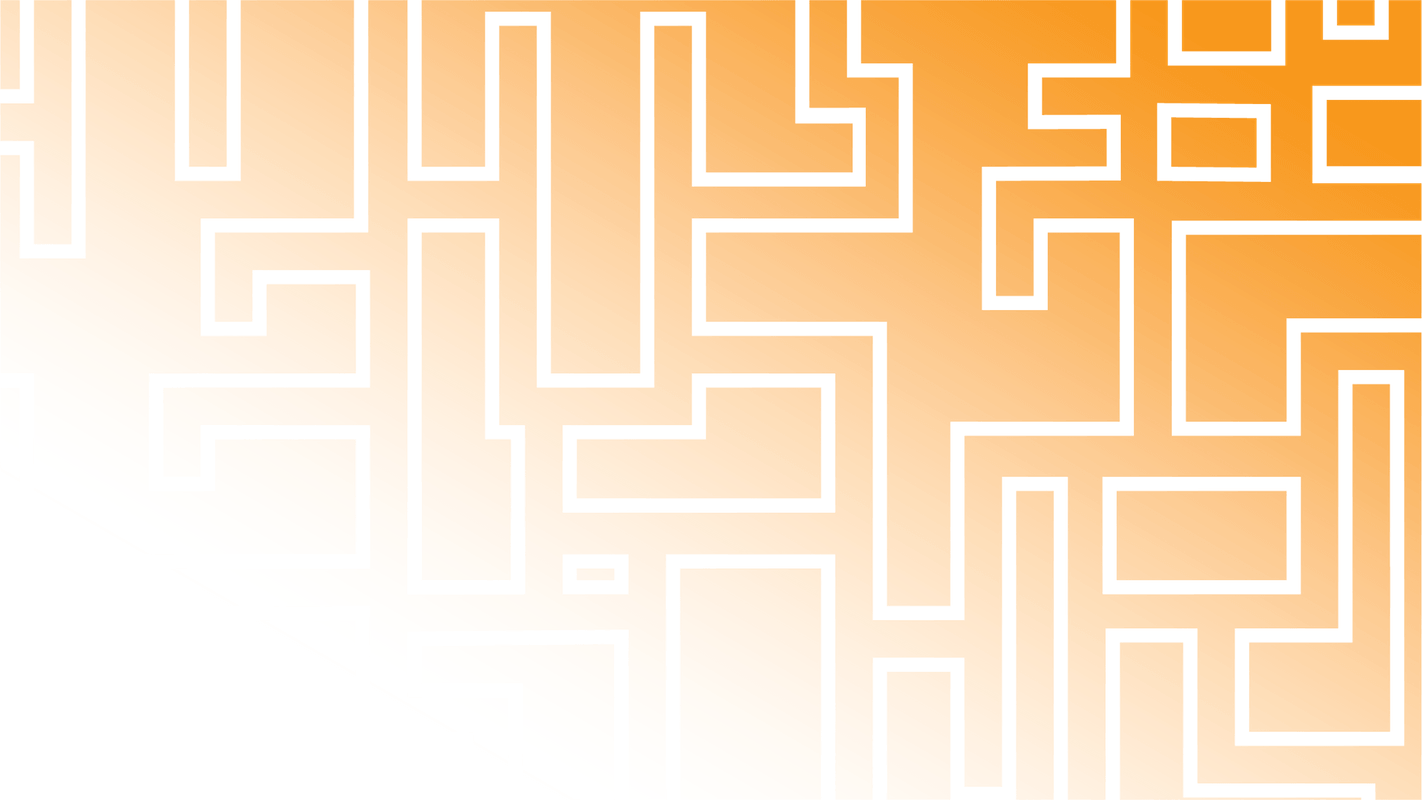
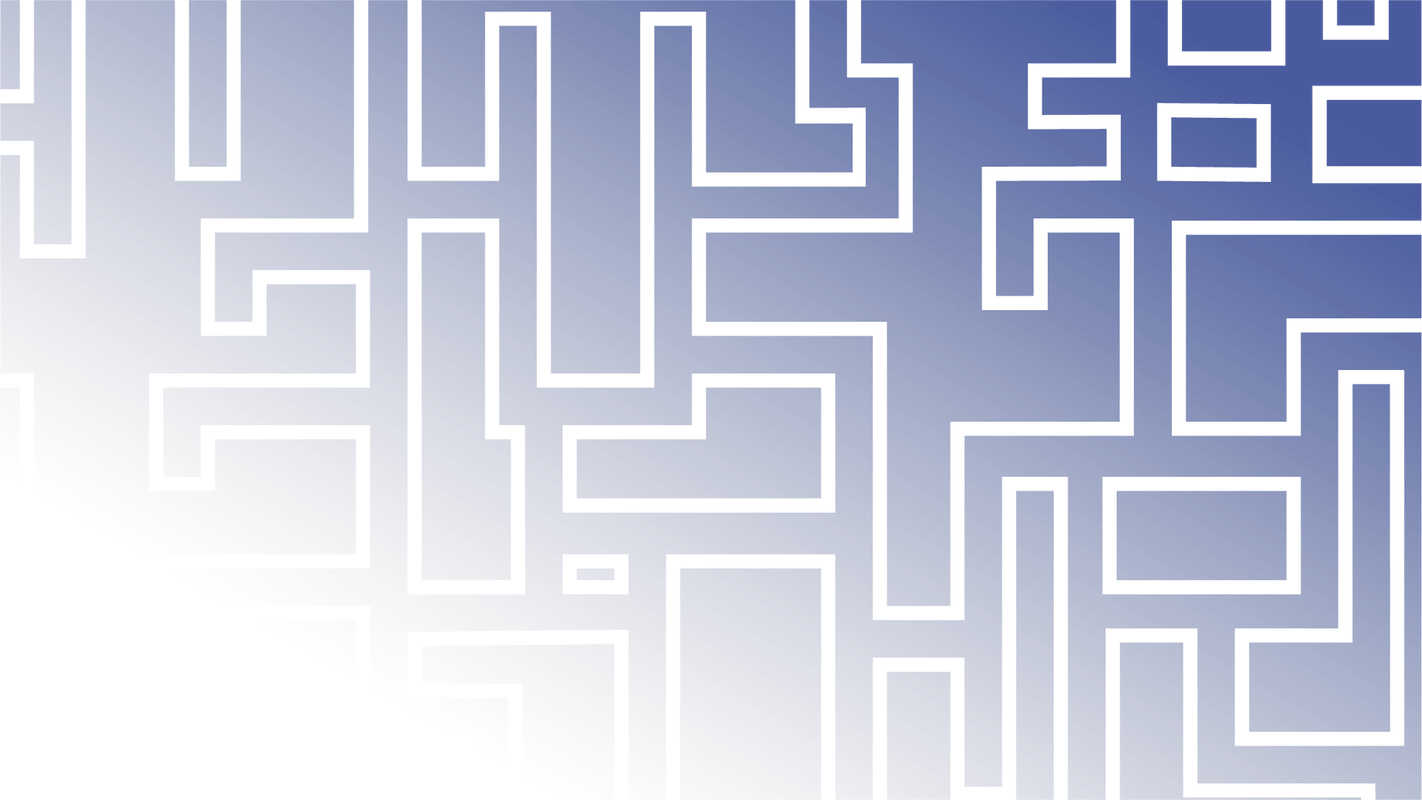
site aesthetic overhaul

diff --git a/src/App.vue b/src/App.vue
@@ -27,26 +27,18 @@
     </div>
     <!-- <h2 style="color:black; position:absolute; left:33%; top:35%;">Loren Heubert-Aubry</h2> -->
     <footer>
-        <div class="ui grid">
-          <div 
-            class="ui left floated column credits"
+        <!-- <div class="ui grid"> -->
+          <!-- <div 
+            class="ui column credits"
             :class="$mq | mq({ 
                         mobile: 'eight wide',
-                        laptop: 'five wide',
+                        laptop: 'six wide',
                     })"
-          >
-            <div style="padding-left:3%; padding-right:3%">
-              <p class="footerText">Copyright © 2018 Loren Heubert-Aubry</p>
-              <p class="footerText">Artwork by <a tabindex="0" target="_blank" rel="noopener" href="https://wyervan.wixsite.com/wyervanart">Anna Ferguson</a></p>
+          > -->
+            <div class="credits" style="padding-left:3%; padding-right:3%">
+              <p class="footerText">Site Artwork by <a tabindex="0" target="_blank" rel="noopener" href="https://wyervan.wixsite.com/wyervanart">Anna Ferguson</a></p>
             </div>
-          </div>
-          <div 
-            class="ui right floated column"
-            :class="$mq | mq({ 
-                        mobile: 'eight wide',
-                        laptop: 'four wide',
-                    })"
-          >
+          <!-- </div> -->
             <i 
               class="profileLinks" 
               :class="$mq | mq({ 
@@ -89,8 +81,7 @@
                   <i class="fab fa-itch-io"/>
                 </a>
             </i>
-          </div>
-        </div>
+        <!-- </div> -->
     </footer>
   </div>
 </template>
@@ -118,7 +109,7 @@ export default {
             id: 0,
             name: "Who I am",
             url: "about",
-            color: "#4CAF50",
+            color: "#188B8B",//"#134074",//"#4CAF50",
             img: "/src/assets/images/background/web2.png",
             alt: "/src/assets/images/background/web1.png",
             corner: "bannerTopLeft",
@@ -127,7 +118,7 @@ export default {
             id: 1,
             name: "What I've made",
             url: "projects",
-            color: "#FF9800",
+            color: "#0E3F77",//"#FF9800",
             img: "/src/assets/images/background/cactus2.png",
             alt: "/src/assets/images/background/cactus1.png",
             corner: "bannerTopRight",
@@ -136,7 +127,7 @@ export default {
             id: 2,
             name: "Where I work",
             url: "work",
-            color: "#FF5252",
+            color: "#082649",//"#FF5252",
             img: "/src/assets/images/background/wave2.png",
             alt: "/src/assets/images/background/wave1.png",
             corner: "bannerBottomLeft",
@@ -145,7 +136,7 @@ export default {
             id: 3,
             name: "What I use",
             url: "tools",
-            color: "#3F51B5",
+            color: "#0E3162",//"#3F51B5",
             img: "/src/assets/images/background/gems2.png",
             alt: "/src/assets/images/background/gems1.png",
             corner: "bannerBottomRight",
@@ -178,8 +169,8 @@ export default {
 }
 
 body {
-    background-image: url("assets/images/background/dust_scratches.jpg");
-    // background-color: black;
+    // background-image: url("assets/images/background/dust_scratches.jpg");
+    background: radial-gradient(#188B8B, #0E3162); //#0e3f77d5;
     overflow-x: hidden;
 }
 
@@ -244,11 +235,13 @@ footer {
   bottom: 3%;
   pointer-events: none;
   padding: 2em;
+  display: flex;
+  justify-content: center;
 
   .profileLinks {
     text-align: right;
-    right: 26%;
-    position:absolute;
+    margin: auto;
+    z-index: 5;
     padding: 0.1em;
     border-radius:10px;
     pointer-events: all !important;
@@ -271,11 +264,12 @@ footer {
   .credits {
     text-align: left;
     position: absolute;
+    width: 30%;
     left: 8%;
     border-radius:10px;
     pointer-events: all !important;
     display: border-box;
-    background-color: rgba(155, 155, 155, 0.5);
+    // background-color: rgba(155, 155, 155, 0.5);
 
   }
 
@@ -291,13 +285,16 @@ footer {
 @media (min-width: 900px) {
 
   .footerText {
-    color: black;
+    color: white;
     font-size: 1.5em;
     font-family: 'Open Sans', sans-serif !important;
     font-weight: 0 !important;
 
     a {
-      color: black;
+      color: white;
+      :hover {
+        text-decoration: underline !important;
+      }
     }
   }
 
@@ -305,13 +302,13 @@ footer {
     position: absolute;
     height: 5em;
     width: 100%;
-    bottom: 3%;
+    bottom: 5%;
 
     .profileLinks {
       background-color: rgba(155, 155, 155, 0.5);
       text-align: right;
-      position: absolute;
-      right: 10%;
+      // position: absolute;
+      // right: 10%;
 
       i {
         color: white;
@@ -334,10 +331,10 @@ footer {
     }
 
     .credits {
-      background-color: rgba(244, 244, 244, 0.5);
+      // background-color: rgba(244, 244, 244, 0.5);
       text-align: left;
       position: absolute;
-      left: 3%;
+      left: 2%;
     }
 
     .credits:hover {
@@ -346,8 +343,8 @@ footer {
       -webkit-backdrop-filter: blur(10px); /* Chrome, Safari, Opera */
       -moz-backdrop-filter: blur(10px);
       backdrop-filter: blur(10px);
-      .footerText, a {
-        color: black;
+      a {
+        text-decoration: underline !important;
       }
     }
 

diff --git a/src/components/TileComponent.vue b/src/components/TileComponent.vue
@@ -8,8 +8,9 @@
     :style="{
         backgroundImage: tileSelected ? 'url()':'url('+ tileImg +')', 
         backgroundColor: tileSelected ? color : 'transparent', 
-        cursor: tileSelected ? 'default':'pointer'
-        }" 
+        cursor: tileSelected ? 'default':'pointer',
+        //boxShadow: '-10px -10px 10px ' + color
+    }" 
     :class="{ tileDetails: tileSelected }"
 >
     <div class="backButton" :class="[($mq === 'tablet') ? '':'hvr-float']" v-if="tileSelected" @click="shrinkTile()">
@@ -17,7 +18,7 @@
         <p>Back</p>
     </div>
     <div class="banner" @click="expandTile()">
-        <h1 class="title" :style="{ color: tileSelected ? 'white' : color }">{{ name }}</h1>
+        <h1 class="title" :style="{ color: 'white'/*'tileSelected ? 'white' : color'*/ }">{{ name }}</h1>
         <div class="tileContent">
             <skills-content-component noselect v-if="name == 'What I use'"></skills-content-component>
             <experience-content-component v-if="name == 'Where I work'"></experience-content-component>
@@ -48,7 +49,7 @@ export default {
     data () {
         return {
             tileSelected: false,
-            tileImg: this.img
+            tileImg: this.img,
         }
     },
     methods: {
@@ -85,7 +86,7 @@ export default {
     position: absolute;
     width:100vw;
     height: 25vh;
-    // border: 2em solid;
+    // border: 1px solid white;
     background-size: cover;
     // background-size: 100px 100px;
     background-repeat:   no-repeat;
@@ -96,6 +97,7 @@ export default {
     -o-transition: all 0.2s;
     transition: all 0.2s;
     overflow: hidden;
+
 
     .banner {
         position: absolute;
@@ -178,7 +180,7 @@ export default {
 
 .bannerTopLeft {
     left: auto;
-    top: 1%;
+    top: 0;
     .banner .title{
         width: 100%;
         text-align: center;
@@ -191,7 +193,7 @@ export default {
 
 .bannerTopRight {
     left: auto;
-    top: 26%;
+    top: 25%;
     .banner .title{
         width: 100%;
         text-align: center;
@@ -204,7 +206,7 @@ export default {
 
 .bannerBottomLeft {
     left: auto;
-    top: 51%;
+    top: 50%;
     .banner .title{
         :not(.tileDetails) {
             width: 100%;
@@ -219,7 +221,7 @@ export default {
 
 .bannerBottomRight {
     left: auto;
-    top: 76%;
+    top: 75%;
     .banner .title{
         width: 100%;
         text-align: center;
@@ -230,18 +232,14 @@ export default {
     } 
 }
 
-// .ui.grid > * {
-//     padding: 0 !important;
-// }
-
 
 @media (min-width: 900px) {
 
     .tile {
         z-index: 0;
         position: absolute;
-        width: 49vw;
-        height: 49vh;
+        width: 50vw;
+        height: 50vh;
 
         .banner {
             position: absolute;
@@ -268,6 +266,7 @@ export default {
         left: 0 !important;
         width:100vw;
         height: 100vh;
+        overflow-y: hidden;
 
         -webkit-transition: all 0.2s;
         -moz-transition: all 0.2s;
@@ -296,8 +295,8 @@ export default {
     }
 
     .bannerTopLeft {
-        left: 0.5%;
-        top: 0.5%;
+        left: 0;
+        top: 0;
         .banner .title{
             padding: 1.5%;
             right: 0;
@@ -320,8 +319,8 @@ export default {
     }
 
     .bannerTopRight {
-        left: 50.5%;
-        top: 0.5%;
+        left: 50%;
+        top: 0;
         .banner .title{
             padding: 1.5%;
             left: 0;
@@ -345,8 +344,8 @@ export default {
     }
 
     .bannerBottomLeft {
-        left: 0.5%;
-        top: 50.5%;
+        left: 0;
+        top: 50%;
         .banner .title{
             padding: 1.5%;
             right: 0;
@@ -370,8 +369,8 @@ export default {
     }
 
     .bannerBottomRight {
-        left: 50.5%;
-        top: 50.5%;
+        left: 50%;
+        top: 50%;
         .banner .title{
             padding: 1.5%;
             left: 0;

diff --git a/src/components/SkillsContentComponent.vue b/src/components/SkillsContentComponent.vue
@@ -1,7 +1,7 @@
 <template>
     <div class="ui relaxed left aligned padded stackable grid container">
         <div class="ui one column row">
-            <div class="ui four wide column">
+            <div class="ui twelve wide column">
                 <div class="ui label levelLegend" style="backgroundColor:#A3D585">Advanced</div>
                 <div class="ui label levelLegend" style="backgroundColor:#EED059">Intermediate</div>
                 <div class="ui label levelLegend" style="backgroundColor:#E26350">Novice</div>

diff --git a/src/components/ProjectsContentComponent.vue b/src/components/ProjectsContentComponent.vue
@@ -272,10 +272,14 @@ a {
 }
 
 .projectContainer {
-        width: 100%;
-        margin: 2em auto;
-        height: 65vh;
-    }
+    width: 100%;
+    margin: 2em auto;
+    height: 65vh;
+}
+
+.slider-pagination-bullet {
+    background-color: #dad6d6 !important;
+}
 
 @media (min-width: 900px) {
     .ui .card {
